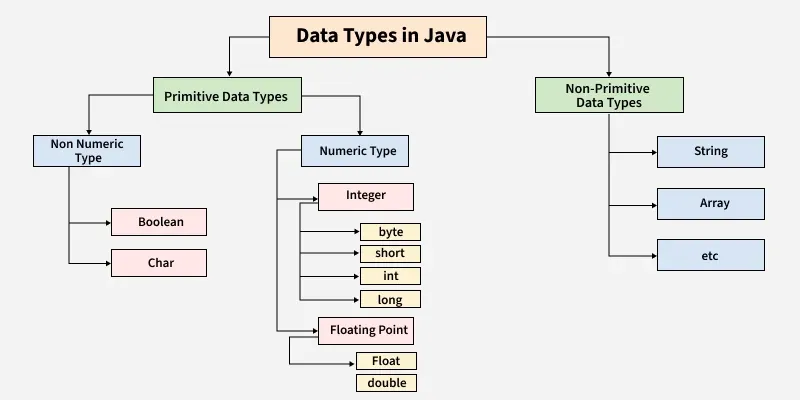
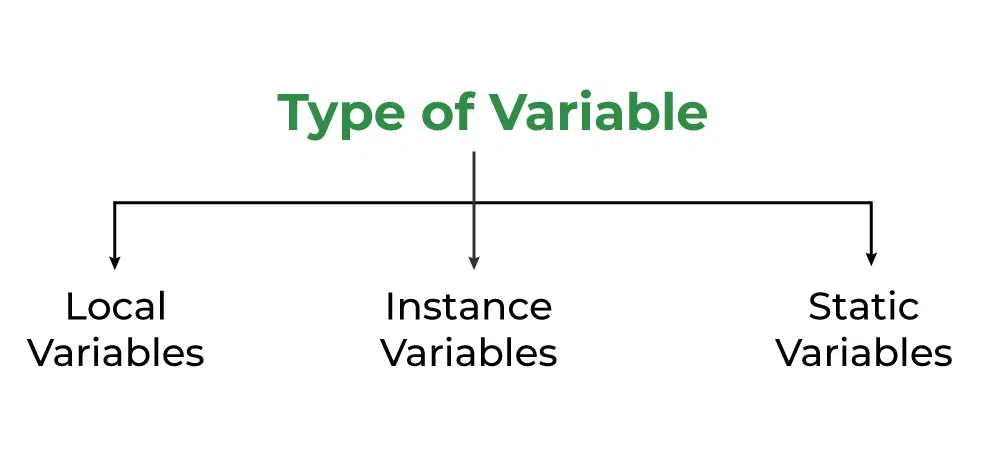
local variable 4-9-2025

diff --git a/main.java b/main.java
@@ -1,9 +1,9 @@
 class main {
  public static void main(String[] args) {
-  int[] num = { 1, 2, 3, 4, 5 };
-  String[] arr = { "Geek1", "Geek2", "Geek3" };
+// Declared a Local Variable
+int var = 10;
 
-  System.out.println("First Number: " + num[0]); // First Number: 1
-  System.out.println("Second Fruit: " + arr[1]); // Second Fruit: Geek2
+// This variable is local to this main method only
+System.out.println("Local Variable: " + var);
  }
 }
